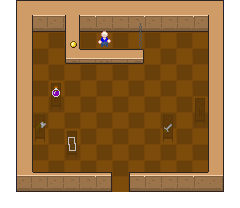
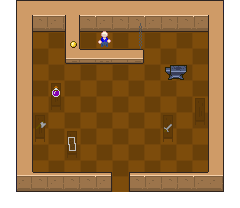
y

Changed region(s): [[0.6708, 0.2885, 0.7875, 0.4038]]

diff --git a/site/app.js b/site/app.js
@@ -13,6 +13,7 @@ const app = firebase.initializeApp(firebaseConfig);
 
 //My code
 let myLocation = "Lobby";
+let myDurability = 0;
 
 const lobbyMapData = {
   minX: 1,
@@ -48,7 +49,6 @@ const lobbyMapData = {
     "3x3": true
   }
 };
-
 const shopMapData = {
   minX: 2,
   maxX: 13,
@@ -200,8 +200,6 @@ function getRandomSafeSpot() {
 	let playerRef;
   let players = {};
   let playerElements = {};
-  let npcs = {};
-  let npcElements = {};
   let coins = {};
   let coinElements = {};
   let potions = {};
@@ -219,9 +217,20 @@ function getRandomSafeSpot() {
   const chatInput = document.querySelector("#chat-input");
   const chatDisplay = document.querySelector("#chat-display");
   const dialogueDisplay = document.querySelector(".dialogue-container");
+  const durDisplay = document.querySelector(".player-dur-info");
 
   gameContainer.setAttribute("data-map", "Lobby");
 
+  function repairTool() {
+    if(players[playerId].coins > 20)
+    {
+      myDurability = 50;
+      durDisplay.innerText = "Current Durability: " + myDurability;
+      firebase.database().ref("players/" + playerId).update({
+        coins: players[playerId].coins - 20
+      });
+    }
+  }
   function placeCoin() {
     var x = getRandomSafeSpot().x;
     var y = getRandomSafeSpot().y;
@@ -324,6 +333,8 @@ function getRandomSafeSpot() {
         const respawnButton = buttonElement.querySelector("#respawn");
         respawnButton.addEventListener("click", () => {
           isButton = false;
+          myLocation = "Lobby";
+          gameContainer.setAttribute("data-map", myLocation);
           respawnContainer.querySelector(".respawnButton").remove();
           const {x, y} = getRandomSafeSpot();
           playerRef.update({
@@ -331,7 +342,8 @@ function getRandomSafeSpot() {
             coins: 0, 
             health: 5, 
             x, 
-            y
+            y, 
+            location: "Lobby"
           })
         })
         respawnContainer.appendChild(buttonElement);
@@ -421,6 +433,8 @@ function getRandomSafeSpot() {
       playerRef.update({
         weapon: items[key].type
       })
+      myDurability = items[key].type == "sword" ? 50 : 70;
+      durDisplay.innerText = "Current Durability: " + myDurability;
       firebase.database().ref(`items/${key}`).remove();
     }
   }
@@ -439,6 +453,10 @@ function getRandomSafeSpot() {
       if (xChange === -1) {
         players[playerId].direction = "left";
       }
+      playerRef.set(players[playerId]);
+      attemptGrabCoin(newX, newY);
+      attemptDrinkPotion(newX, newY);
+      attemptGrabItem(newX, newY);
       const mapData = getCurrentMapData();
       if(mapData.portals[getKeyString(newX, newY)])
       {
@@ -459,7 +477,63 @@ function getRandomSafeSpot() {
       if(myLocation == "Shop" && getKeyString(newX, newY) == "6x4")
       {
         //Talk to shopkeeper
-        OpenDialogue("Hello there, I am the shopkeeper.", "Buy Sword for 40 coins", null);
+        if(myDurability < 10)
+        {
+          OpenDialogue(
+            "Hello there, I am the shopkeeper.", 
+            "Ok", 
+            null, 
+            "dialogue", 
+            null, 
+            () => OpenDialogue(
+              "I have a great deal for you.", 
+              "What is it?", 
+              "No thanks, Bye.", 
+              "dialogue", 
+              "dialogue", 
+              () => OpenDialogue(
+                "I see your weapon there is about to break. I can repair that for you. It'll cost you 20 coins", 
+                "Ok, sure", 
+                "Nope", 
+                "dialogue", 
+                "dialogue", 
+                () => repairTool(), 
+                () => CloseDialogue()
+              ), 
+              () => CloseDialogue()
+            ), 
+            null
+          );
+        } else {
+          OpenDialogue(
+            "Hello there, I am the shopkeeper.", 
+            "Ok", 
+            null, 
+            "dialogue", 
+            null, 
+            () => OpenDialogue(
+              "Are you gonna buy something or are you just wasting my time?!", 
+              "I'll buy something", 
+              "Just wasting your time.", 
+              "dialogue", 
+              "dialogue", 
+              () => OpenDialogue(
+                "I can sell this sword for 40 coins", 
+                "Buy", 
+                null, 
+                "item", 
+                null, 
+                {
+                  "item": "sword", 
+                  "price": 40
+                }, 
+                null
+              ), 
+              () => CloseDialogue()
+            ), 
+            null
+          );
+        }
       }
       if(myLocation == "Shop" && getKeyString(oldX, oldY) == "6x4")
       {
@@ -467,13 +541,18 @@ function getRandomSafeSpot() {
         CloseDialogue();
       }
       playerRef.set(players[playerId]);
-      attemptGrabCoin(newX, newY);
-      attemptDrinkPotion(newX, newY);
-      attemptGrabItem(newX, newY);
     }
   }
   function handleAttack() {
     var attackX;
+    myDurability--;
+        if(myDurability < 0)
+        {
+          myDurability = 0;
+          firebase.database().ref("players/" + playerId).update({
+            weapon: "none"
+          })
+        }
     if(players[playerId].direction === "right") {
       //right
       attackX = players[playerId].x + 1;
@@ -486,6 +565,14 @@ function getRandomSafeSpot() {
         }
       })
       if(playerToAttack != null && !players[playerId].isDead && !players[playerToAttack].isDead) {
+        myDurability--;
+        if(myDurability < 0)
+        {
+          myDurability = 0;
+          firebase.database().ref("players/" + playerId).update({
+            weapon: "none"
+          })
+        }
         playerToAttackRef = firebase.database().ref("players/" + playerToAttack);
         var damage = randomFromArray([0, 0, 0, 0, 0, 0, 0, 1, 1, 1]);
         if(players[playerId].weapon == "sword")
@@ -511,6 +598,7 @@ function getRandomSafeSpot() {
             playerRef.update({
               weapon: players[playerToAttack].weapon
             })
+            myDurability = players[playerToAttack].weapon == "sword" ? 50 : 70
           }
           playerToAttackRef.update({
             coins: 0, 
@@ -530,6 +618,14 @@ function getRandomSafeSpot() {
         }
       })
       if(playerToAttack != null && !players[playerId].isDead && !players[playerToAttack].isDead) {
+        myDurability--;
+        if(myDurability < 0)
+        {
+          myDurability = 0;
+          firebase.database().ref("players/" + playerId).update({
+            weapon: "none"
+          })
+        }
         playerToAttackRef = firebase.database().ref("players/" + playerToAttack);
         var damage = randomFromArray([0, 0, 0, 0, 0, 0, 0, 1, 1, 1]);
         if(players[playerId].weapon == "sword")
@@ -555,6 +651,7 @@ function getRandomSafeSpot() {
             playerRef.update({
               weapon: players[playerToAttack].weapon
             })
+            myDurability = players[playerToAttack].weapon == "sword" ? 50 : 70
           }
           playerToAttackRef.update({
             coins: 0, 
@@ -563,9 +660,11 @@ function getRandomSafeSpot() {
         }
       }
     }
+    durDisplay.innerText = "Current Durability: " + myDurability;
   }
-  function OpenDialogue(message, buttonone, buttontwo) {
+  function OpenDialogue(message, buttonone, buttontwo, b1func, b2func, b1fdata, b2fdata) {
     //open a dialogue
+    let number = 2;
     dialogueDisplay.querySelector("#dialogue-text").innerText = message;
     dialogueDisplay.querySelector("#first-button").innerText = buttonone;
     dialogueDisplay.querySelector("#second-button").innerText = buttontwo;
@@ -575,25 +674,59 @@ function getRandomSafeSpot() {
     {
       dialogueDisplay.querySelector("#first-button").setAttribute("data-show", "false");
       dialogueDisplay.querySelector("#second-button").setAttribute("data-show", "false");
-    }
-    if(buttontwo == null)
+      number = 0;
+    } else if(buttontwo == null)
     {
       dialogueDisplay.querySelector("#second-button").setAttribute("data-show", "false");
+      number = 1;
     }
     dialogueDisplay.querySelector("#exit-button").setAttribute("data-show", "true");
     dialogueDisplay.setAttribute("data-show", "true");
     dialogueDisplay.querySelector("#exit-button").addEventListener("click", () => {
       CloseDialogue();
     })
-    dialogueDisplay.querySelector("#first-button").addEventListener("click", () => {
-      if(players[playerId].coins >= 40)
-      {
-        playerRef.update({
-          coins: players[playerId].coins - 40, 
-          weapon: "sword"
-        })
-      }
-    })
+    if(b1func == "item")
+    {
+      dialogueDisplay.querySelector("#first-button").addEventListener("click", () => {
+        if(players[playerId].coins >= b1fdata.price)
+        {
+          playerRef.update({
+            coins: players[playerId].coins - b1fdata.price, 
+            weapon: b1fdata.item
+          })
+        }
+        console.log(players[playerId].coins);
+        dialogueDisplay.querySelector("#first-button").replaceWith(dialogueDisplay.querySelector("#first-button").cloneNode(true));
+      })
+    }
+    if(b2func == "item")
+    {
+      dialogueDisplay.querySelector("#second-button").addEventListener("click", () => {
+        if(players[playerId].coins >= b2fdata.price)
+        {
+          playerRef.update({
+            coins: players[playerId].coins - b2fdata.price, 
+            weapon: b2fdata.item
+          })
+        }
+        dialogueDisplay.querySelector("#second-button").replaceWith(dialogueDisplay.querySelector("#second-button").cloneNode(true));
+      })
+    }
+    if(b1func == "dialogue")
+    {
+      dialogueDisplay.querySelector("#first-button").addEventListener("click", () => {
+        dialogueDisplay.querySelector("#first-button").replaceWith(dialogueDisplay.querySelector("#first-button").cloneNode(true));
+        b1fdata();
+      })
+    }
+    if(b2func == "dialogue")
+    {
+      dialogueDisplay.querySelector("#second-button").addEventListener("click", () => {
+        dialogueDisplay.querySelector("#second-button").replaceWith(dialogueDisplay.querySelector("#second-button").cloneNode(true));
+        b2fdata();
+      })
+    }
+    dialogueDisplay.querySelector("#dialogue-text").setAttribute("data-number", number);
   }
   function CloseDialogue() {
     //open a dialogue
@@ -612,6 +745,10 @@ function getRandomSafeSpot() {
     new KeyPressListener("ArrowDown", () => handleArrowPress(0, 1))
     new KeyPressListener("ArrowLeft", () => handleArrowPress(-1, 0))
     new KeyPressListener("ArrowRight", () => handleArrowPress(1, 0))
+    new KeyPressListener("KeyW", () => handleArrowPress(0, -1))
+    new KeyPressListener("KeyS", () => handleArrowPress(0, 1))
+    new KeyPressListener("KeyA", () => handleArrowPress(-1, 0))
+    new KeyPressListener("KeyD", () => handleArrowPress(1, 0))
     new KeyPressListener("Space", () => handleAttack())
 
     const allPlayersRef = firebase.database().ref(`players`);
@@ -836,6 +973,7 @@ function getRandomSafeSpot() {
       }
     })
 
+    durDisplay.innerText = "Current Durability: " + myDurability;
     placeCoin();
     oneSecondLoop();
     tickLoop();

diff --git a/site/styles.css b/site/styles.css
@@ -14,6 +14,11 @@ html, body {
 	align-items: center;
 	justify-content: center;
 }
+h3 {
+	margin: 0.3em;
+	margin-top: 0px;
+	margin-bottom: 0px;
+}
 
 /* Game Container */
 
@@ -49,6 +54,18 @@ html, body {
 	position: absolute;
 	top: 0;
 	left: 0;
+	padding: 1em;
+	display: flex;
+	gap: 0.5em;
+	align-items: flex-end;
+}
+
+/* Player info */
+
+.player-dur-info {
+	position: absolute;
+	top: 0;
+	right: 0;
 	padding: 1em;
 	display: flex;
 	gap: 0.5em;
@@ -146,7 +163,21 @@ button:active:not(#exit-button) {
 #dialogue-text {
 	display: inline-block;
 	position: relative;
-	bottom: 50%;
+	margin: 5px;
+	margin-bottom: 9%;
+}
+
+#dialogue-text[data-number="1"] {
+	display: inline-block;
+	position: relative;
+	margin: 5px;
+	margin-bottom: 3%;
+}
+#dialogue-text[data-number="2"] {
+	display: inline-block;
+	position: relative;
+	margin: 5px;
+	margin-bottom: 9%;
 }
 
 #first-button, #second-button, #exit-button {

diff --git a/site/index.html b/site/index.html
@@ -19,6 +19,9 @@
         		<button id="player-color">Change Color</button>
     		</div>
 		</div>
+		<div class="player-dur-info">
+    		<h3 id="current-dur">Current Durability: </h3>
+		</div>
 		<div class="dialogue-container">
 			<span id="dialogue-text"></span>
 			<span id="option-container">
